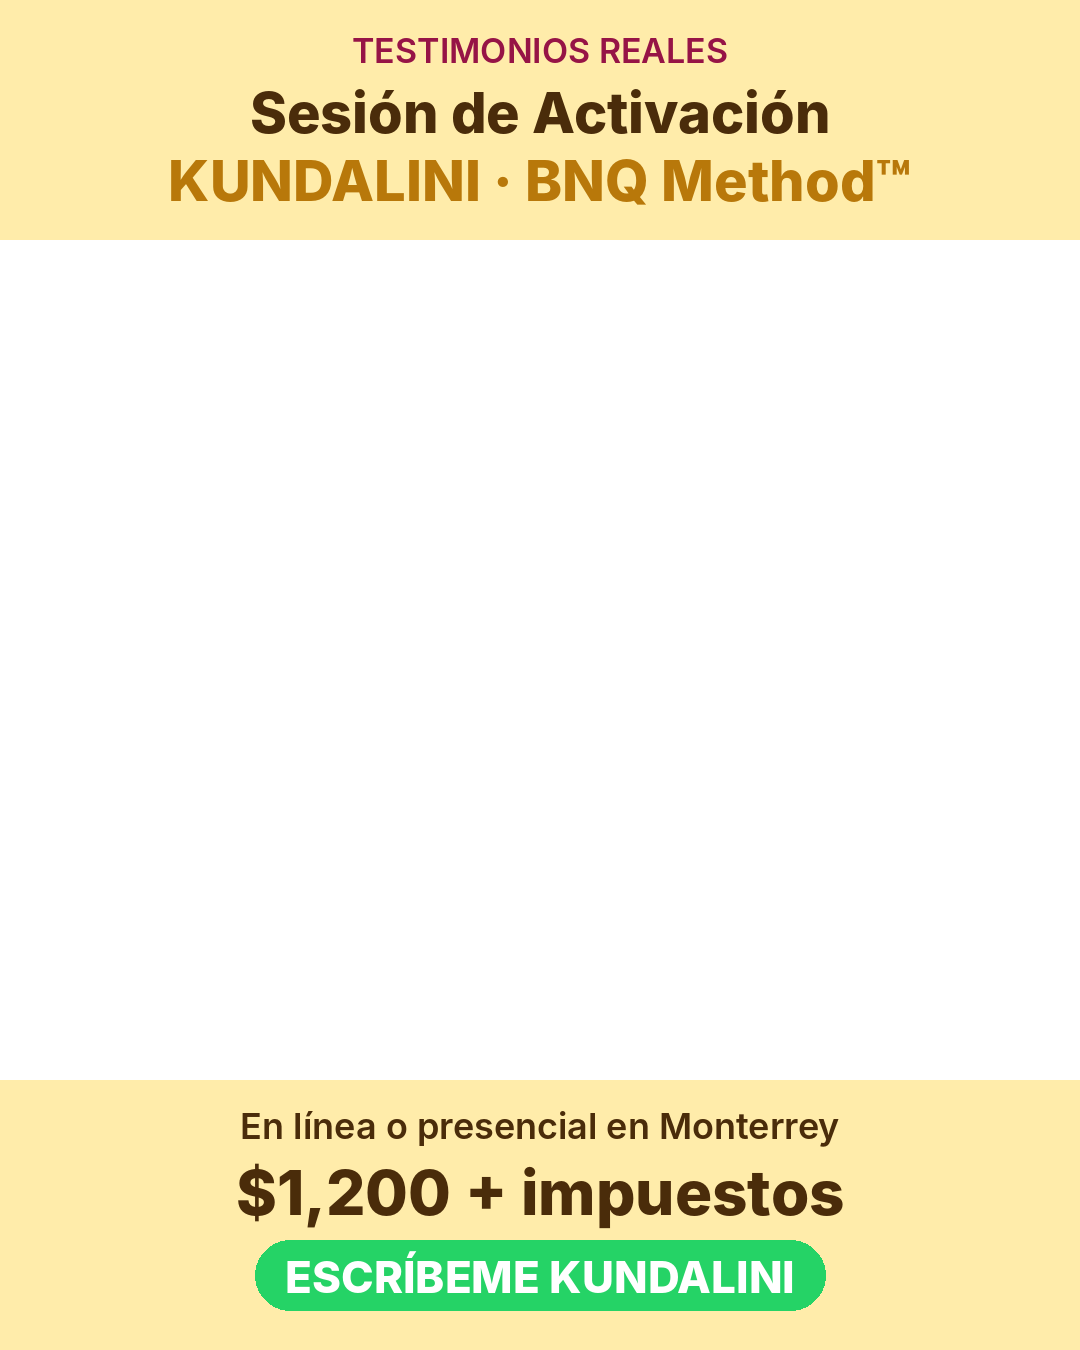
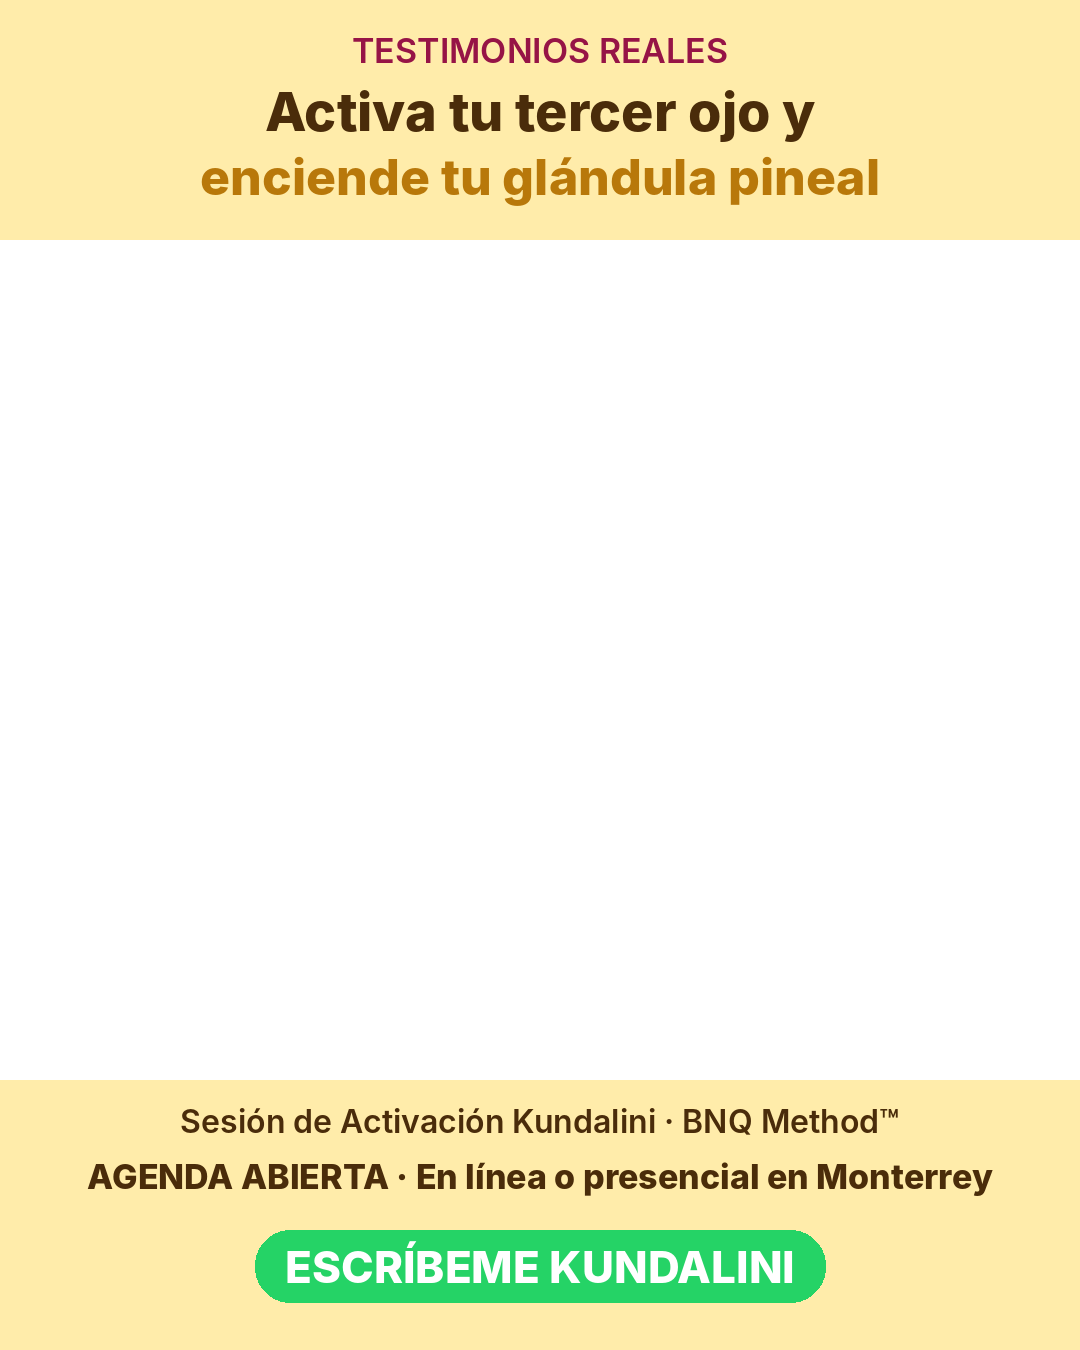
Kundalini sin precio en anuncios; video de testimonios rehecho
Claude-Session: https://claude.ai/code/session_01XHpWW3cNoPrwBL8CwPdgsU

Changed region(s): [[0.0917, 0.8089, 0.9167, 0.9956], [0.1528, 0.0622, 0.825, 0.1556]]

diff --git a/nica-apify/campanas/kundalini-siempre-activa.md b/nica-apify/campanas/kundalini-siempre-activa.md
@@ -1,6 +1,6 @@
 # KUNDALINI · PAUTA SIEMPRE ACTIVA (Mabel, 21-nov) · comunidad + pauta, desde ya
 Ángulo: "ACTIVA TU TERCER OJO Y ENCIENDE TU GLÁNDULA PINEAL" · dos polos: ESPIRITUAL (tercer ojo, Kundalini, despertar) + CIENTÍFICO (glándula pineal, melatonina, ciclos de sueño), con traducción simple. Sin promesas de salud.
-Precio: público $1,200 + impuestos · comunidad 20% con cupón COMUNIDAD (confirmar: $960 + impuestos vs $1,000 acordado antes).
+Venta por WhatsApp directo (agenda). PRECIO NUNCA EN EL ANUNCIO: $1,500, promoción $1,200; se dice solo en el chat.
 Agenda abierta · En línea o presencial en Monterrey · por WhatsApp.
 
 ## Video del anuncio (Mabel graba SOLO los primeros 15 s; NICA arma el resto) · DESDE EL DOLOR Y EL BENEFICIO
@@ -35,6 +35,6 @@ Personal, guiada por mí, en línea o presencial en Monterrey.
 
 👤 SOY MABEL SORIANO en 5 años he acompañado a más de 800 personas con este método. Te llevo a donde necesitas estar.
 
-📅 AGENDA ABIERTA · Escríbeme KUNDALINI y te comparto horarios. $1,200 + impuestos.
+📅 AGENDA ABIERTA · Escríbeme KUNDALINI y te comparto horarios.
 Lo que no se ACTIVA, no CAMBIA. Y lo que no se REPITE, no se INSTALA.
 Mabel Soriano · BNQ Method™

diff --git a/nica-apify/ESTADO.md b/nica-apify/ESTADO.md
@@ -158,3 +158,4 @@
 - 21-nov · MODELO DEFINIDO POR MABEL: nuevos → live → Pack de Abundancia; compradoras → hipnosis en vivo cada domingo 11 AM, acumulativo, hasta 5 por persona; comunidad → agenda semanal de activaciones + 1 producto distinto por semana con 20%. Guion de venta actualizado (regalo = hasta 5 domingos).
 - 21-nov · KUNDALINI APROBADO como pauta SIEMPRE ACTIVA (comunidad + pauta, desde ya). Ángulo dos polos: 'Activa tu tercer ojo y enciende tu glándula pineal'. Video = Mabel 15 s + 3 testimonios + CTA agenda abierta presencial/online. campanas/kundalini-siempre-activa.md. Falta: grabación 15 s de Mabel, presupuesto diario, precio comunidad ($960 vs $1,000).
 - 21-nov · Kundalini: copy = el aprobado de Mabel ('TU GLÁNDULA PINEAL: EL PORTAL QUE CASI NADIE ACTIVA') + CTA agenda abierta. Guion 15 s rehecho desde dolor/beneficio. Regla 'siempre desde el dolor y el beneficio' en CLAUDE.md.
+- 21-nov · KUNDALINI: se vende por WhatsApp directo (agenda), NUNCA precio en anuncios. $1,500, promo $1,200 (solo en el chat). Video de testimonios rehecho sin precio: título 'Activa tu tercer ojo y enciende tu glándula pineal' + AGENDA ABIERTA.

diff --git a/nica-apify/CLAUDE.md b/nica-apify/CLAUDE.md
@@ -500,7 +500,7 @@ El link de Zoom lo comparte Mabel: un día antes por la tarde-noche, la mañana 
 - Conclusión: el problema NO es el tema ni el título; es el modelo (gratis + probadita + oferta al final). El Director debe proponer modelos y temas que vendan en la industria, no encuestas.
 
 ## PRECIOS VIGENTES (Mabel, 21-nov) · SIEMPRE "+ impuestos"
-- Sesión de Activación Kundalini: público $1,200 + impuestos · comunidad $1,000 + impuestos.
+- Sesión de Activación Kundalini: NO se vende por Hotmart; se agenda por WhatsApp directo. El precio NUNCA va en anuncios, copys ni videos: se dice solo cuando la persona escribe. Precio $1,500, promoción $1,200 (comunidad: preguntar a Mabel).
 - Activaciones Robóticas Millonarias: público $500 + impuestos · comunidad 20% con cupón COMUNIDAD = $400 + impuestos. Regalo: entrada a NeurohackersVIP. Link: https://hotmart.com/es/marketplace/productos/activaciones-roboticas-millonarias-10-audios-para-recibir-dinero-con-facilidad/Q108030809L
 - Programa la Riqueza mientras Duermes: $500 + impuestos.
 Todo precio que se escriba lleva "+ impuestos".

diff --git a/nica-apify/campanas/anuncio-kundalini-testimonios.md b/nica-apify/campanas/anuncio-kundalini-testimonios.md
@@ -1,11 +1,10 @@
 # Anuncio · Sesión de Activación Kundalini con testimonios reales (PARA OK DE MABEL)
 Video: 3 testimonios reales enviados por Mabel (2 señores + 1 joven), 80 s. ANUNCIO-KUNDALINI-TESTIMONIOS-9x16.mp4 y -4x5.mp4. Overlays en live/kundalini/.
-Precio público: $1,200 + impuestos. Agenda por WhatsApp (wa.me/message/VI25SFOR2KLBL1).
+Precio público: Agenda por WhatsApp (wa.me/message/VI25SFOR2KLBL1).
 Texto principal:
 Ellos llegaron cargando cansancio, bloqueos y una energía estancada. Escucha lo que vivieron en su Sesión de Activación Kundalini.
 Es una sesión 1 a 1 conmigo, en línea o presencial en Monterrey, con el Método BNQ™: despertamos la energía dormida en tu interior y la reprogramamos para que vuelvas a fluir.
 Agenda tu sesión: escríbeme KUNDALINI por WhatsApp.
-$1,200 + impuestos.
 Lo que no se ACTIVA, no CAMBIA. Y lo que no se REPITE, no se INSTALA.
 Mabel Soriano · BNQ Method™
 Título: Sesión de Activación Kundalini · 1 a 1 · Botón: Enviar mensaje (WhatsApp)
